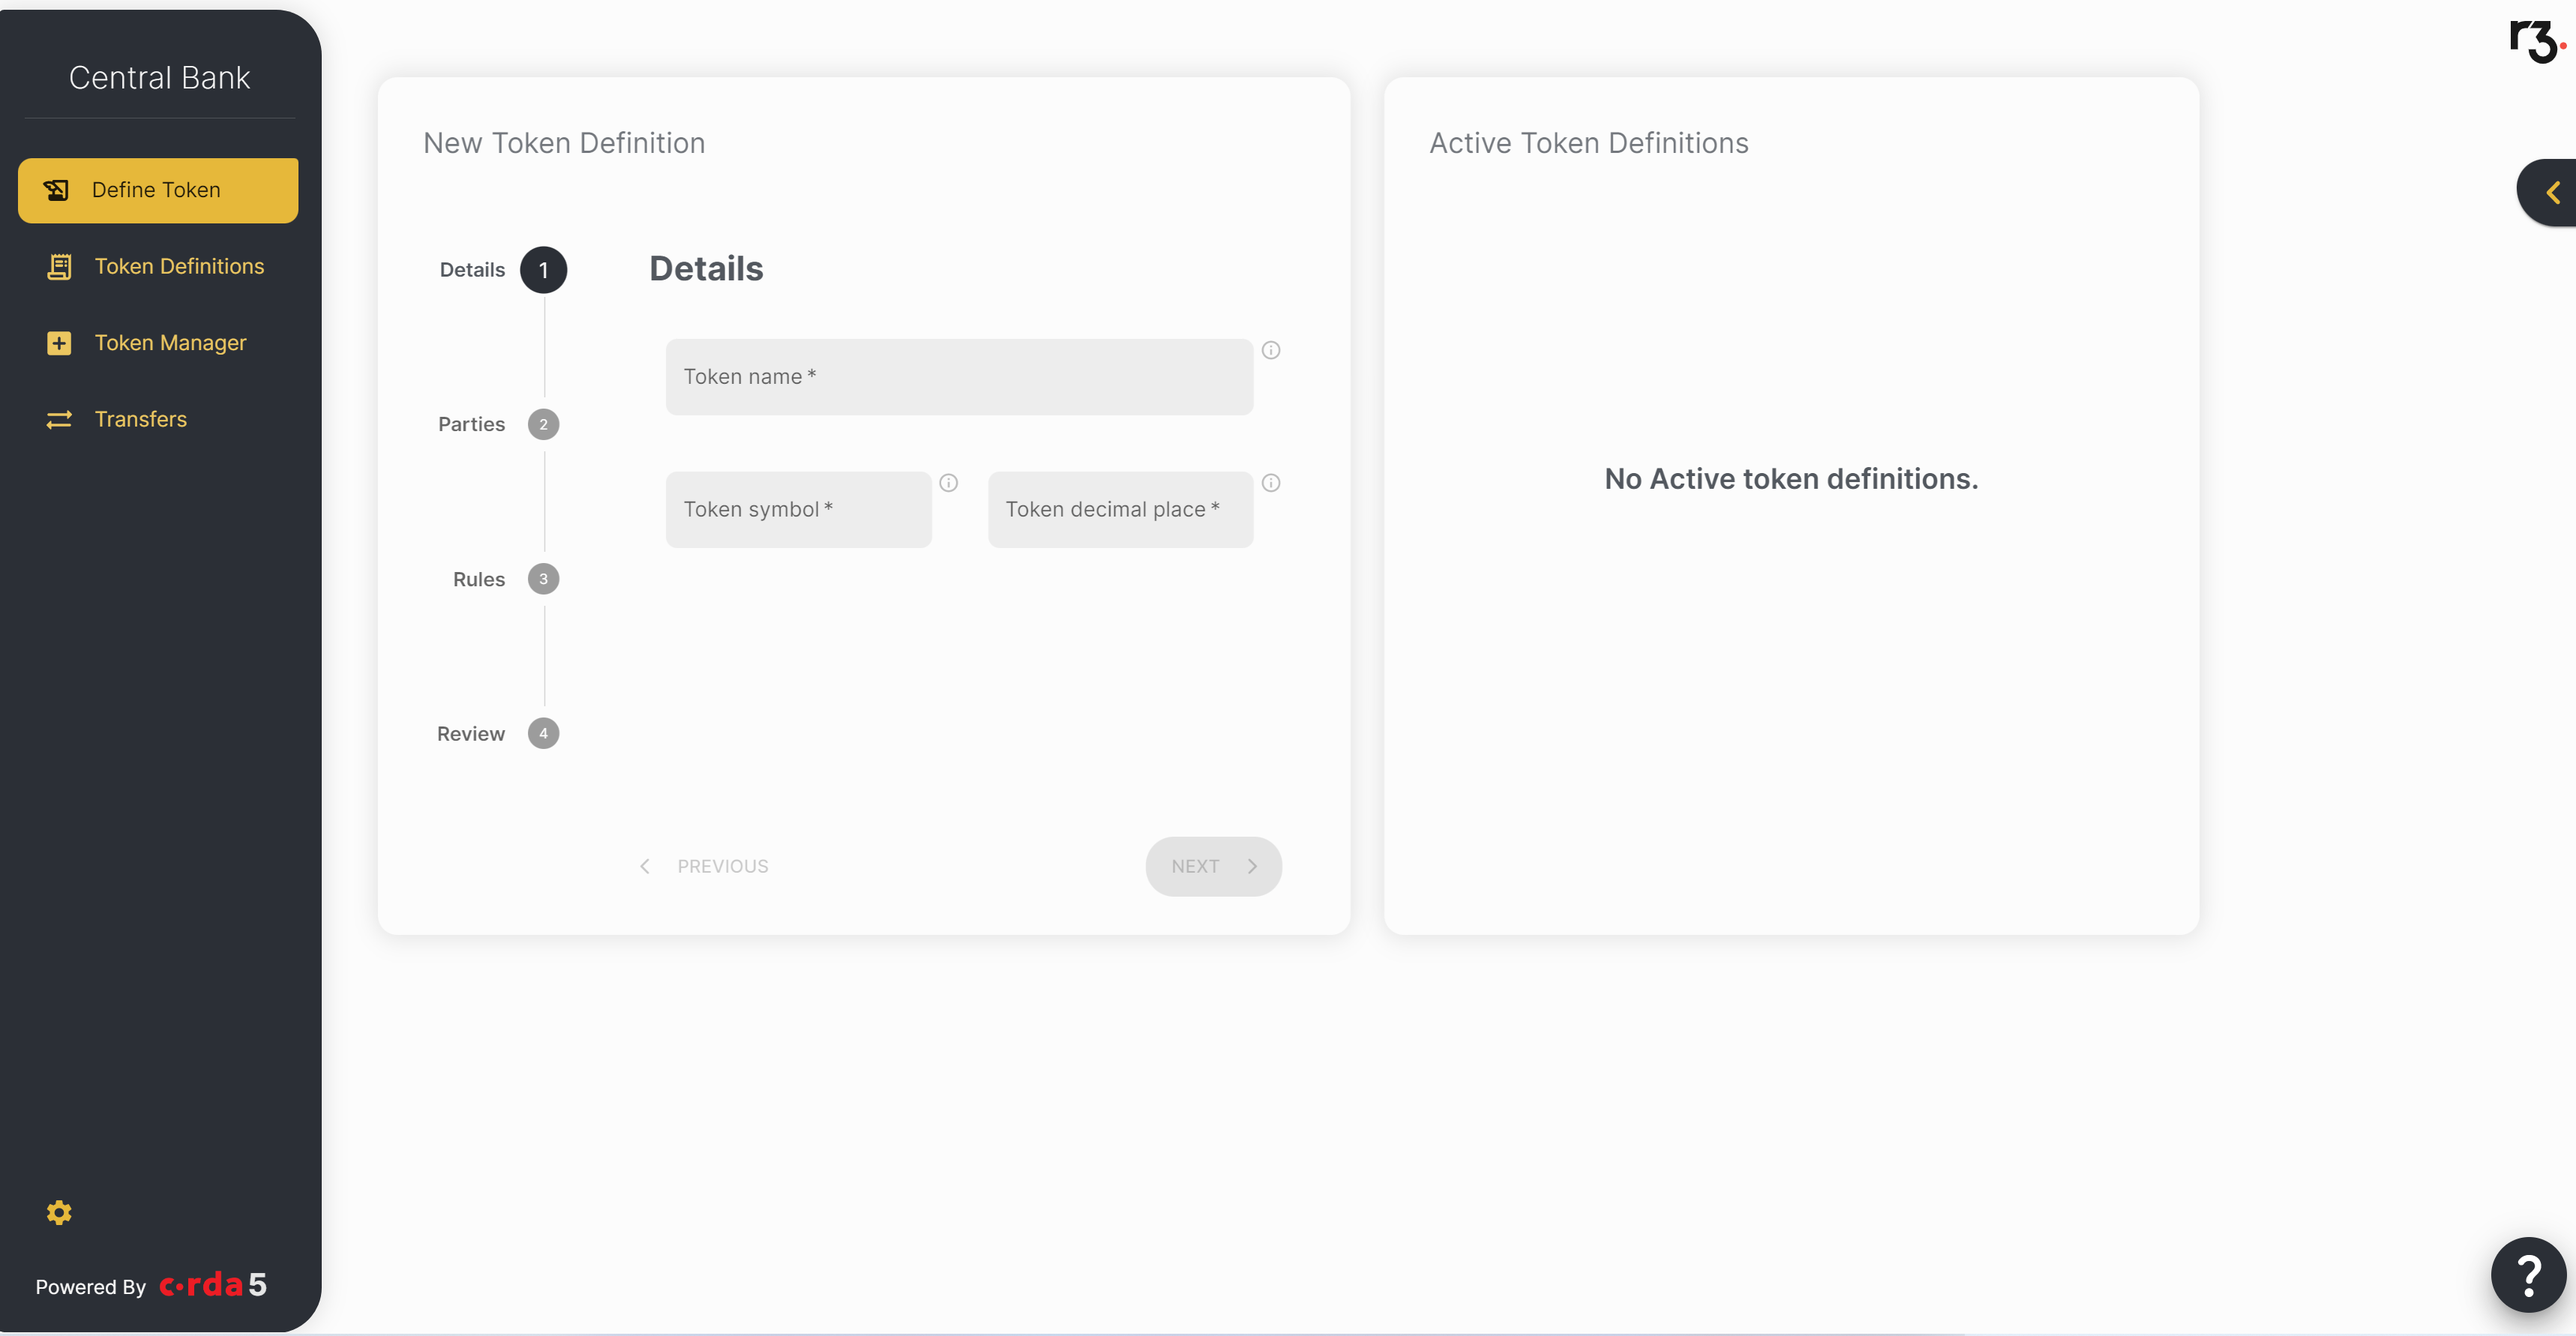
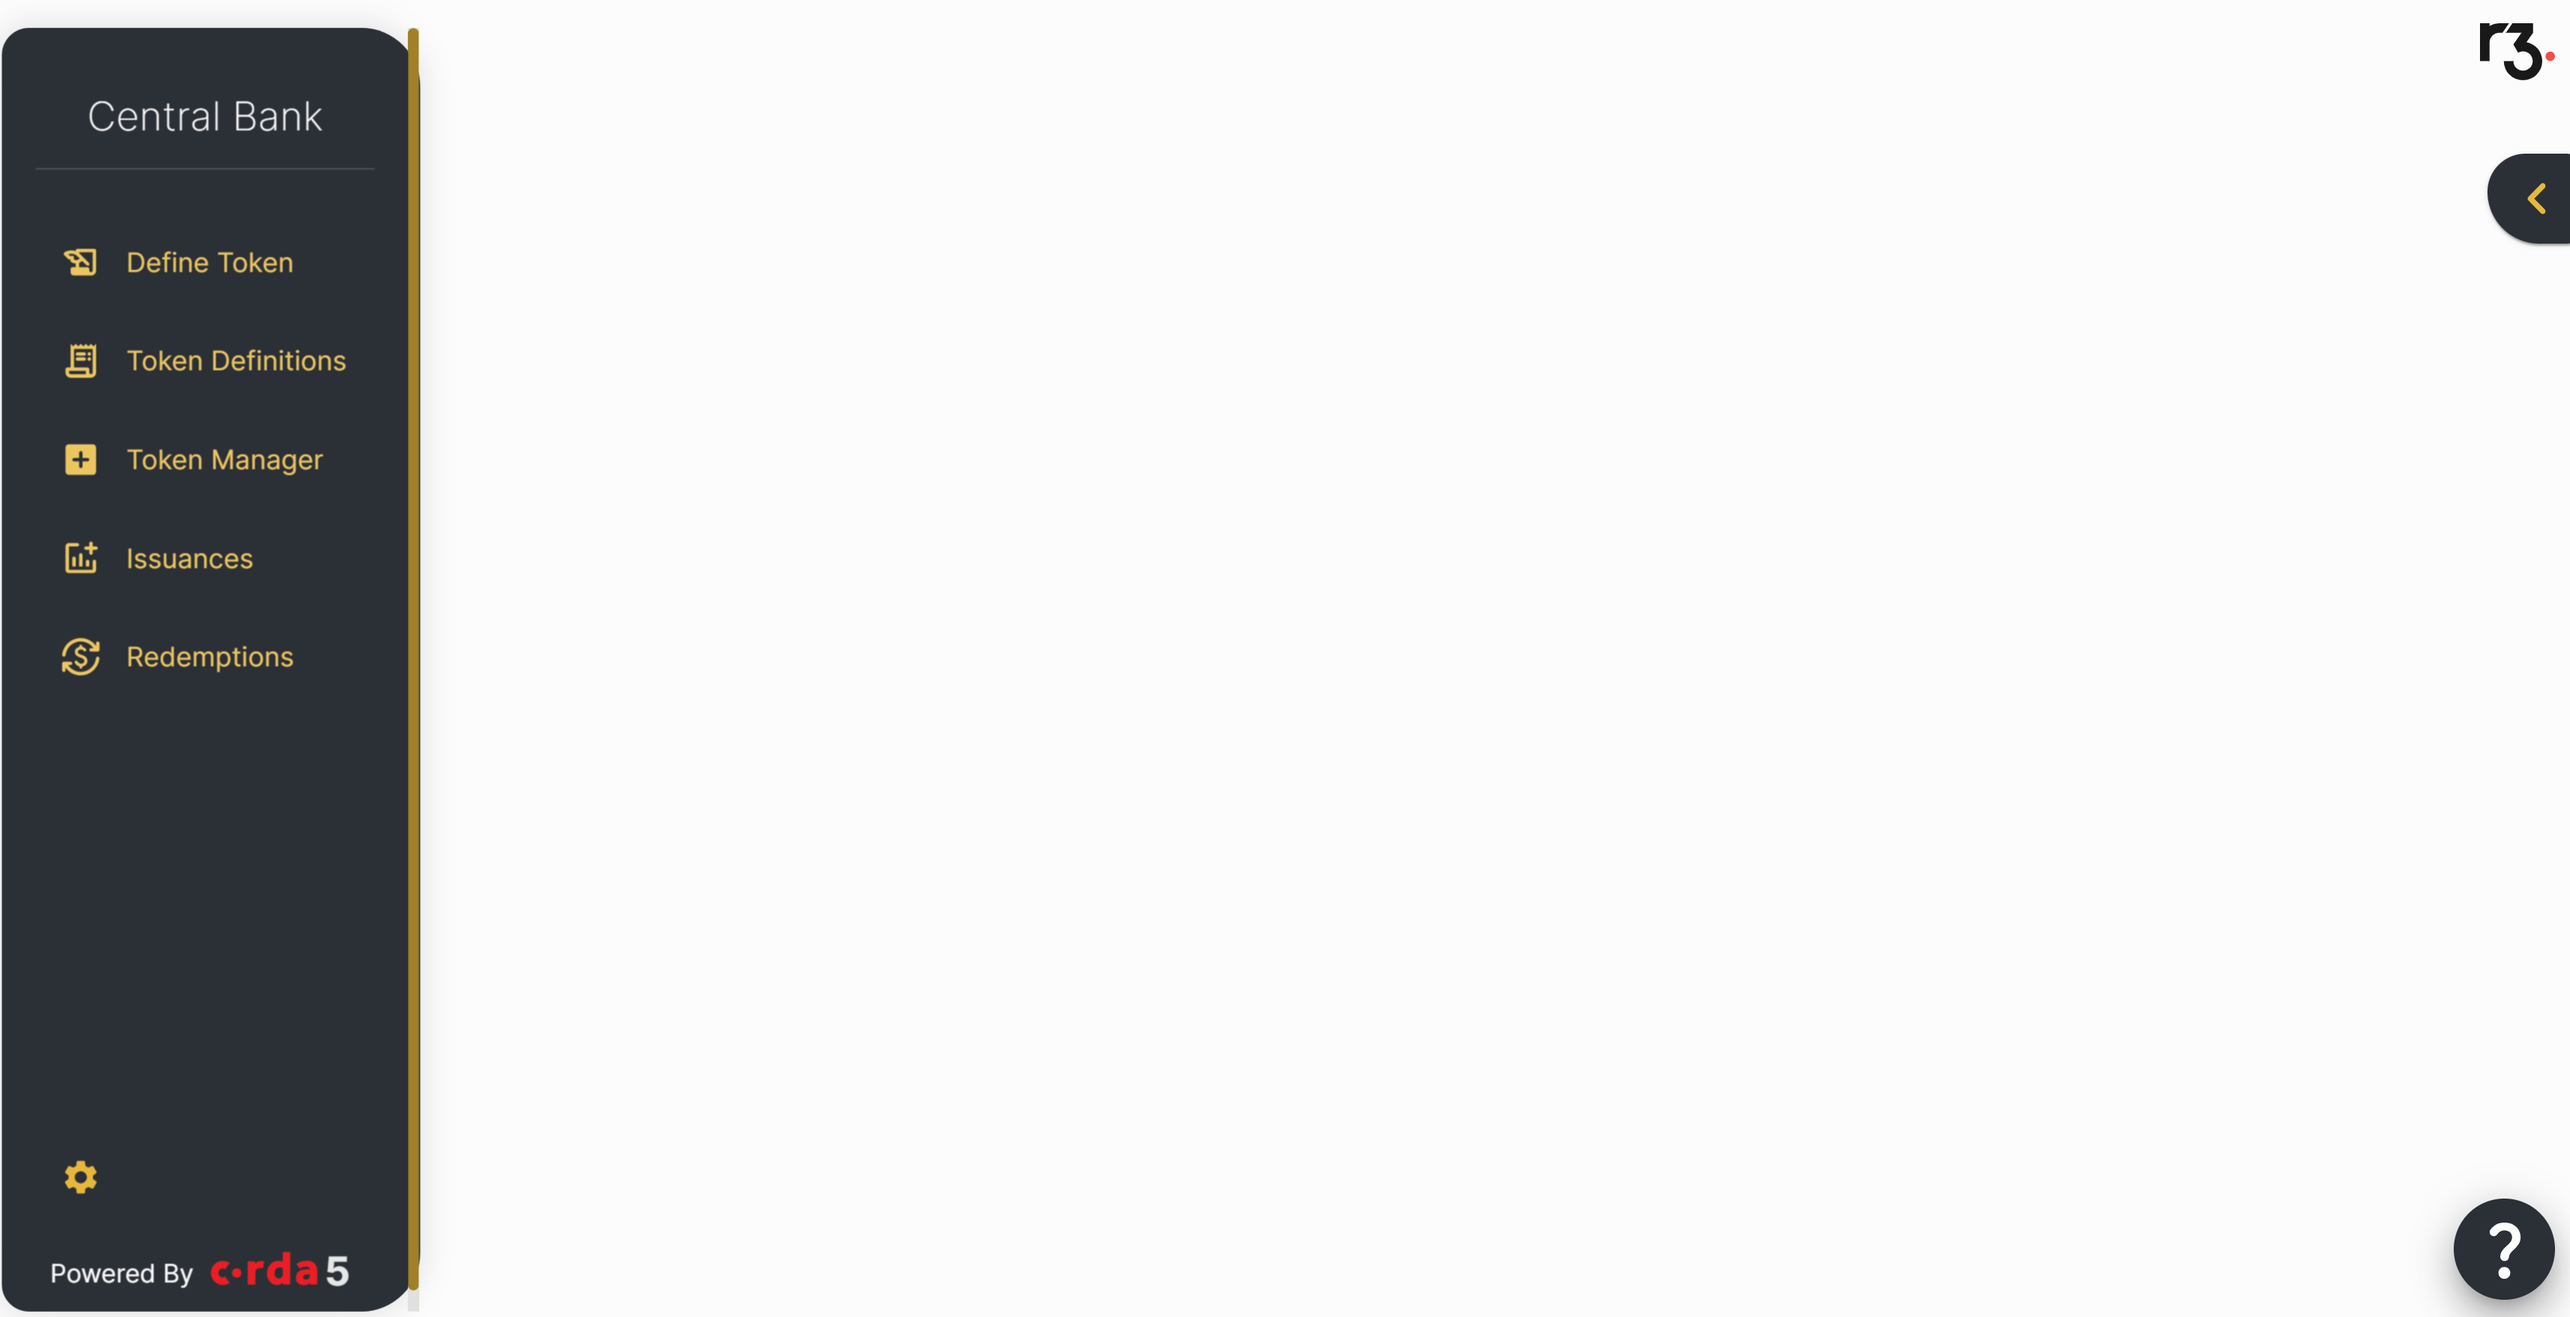
Updated language from creating to minting

diff --git a/content/en/tools/digital-currencies/launching-the-dc-demo.md b/content/en/tools/digital-currencies/launching-the-dc-demo.md
@@ -33,13 +33,15 @@ The GUI has the following elements:
   * **Define Token**: See [Creating Token Definitions]({{< relref "creating-token-definitions.md" >}})
   * **Token Definitions**: See [Viewing Token Definitions]({{< relref "viewing-token-definitions.md" >}})
   * **Token Manager**: See:
-    * [Creating Tokens]({{< relref "creating-tokens.md" >}})
+    * [Minting Tokens]({{< relref "minting-tokens.md" >}})
     * [Burning Tokens]({{< relref "burning-tokens.md" >}})
     * [Viewing Vault Balances]({{< relref "viewing-vault-balances.md" >}})
-  * **Transfers**: See:
+  * **Issuances**: See:
     * [Transfering Tokens]({{< relref "transfering-tokens.md"  >}})
+  * **Redemptions**: See:
+    * 
   See [Issuing Tokens]({{< relref "issuing-tokens.md" >}}) 
 * The **Settings** button (![](images/setting-buttons.png)): See [Viewing the GUI Settings]({{< relref "viewing-the-gui-settings.md" >}}). 
-* The flow tracker button (![](images/flow-drawer-button.png)): When performing flows such as creating token definitions and creating tokens, click this button to display a pop-out flow tracker which displays the current status of flows. By default, the five most recent flows are displayed.
+* The flow tracker button (![](images/flow-drawer-button.png)): When performing flows such as creating token definitions and minting tokens, click this button to display a pop-out flow tracker which displays the current status of flows. By default, the five most recent flows are displayed.
   
 

diff --git a/content/en/tools/digital-currencies/minting-tokens.md b/content/en/tools/digital-currencies/minting-tokens.md
@@ -4,12 +4,12 @@ lastmod: '2023-03-21'
 section_menu: tools
 menu:
   tools:
-    name: "Creating Tokens"
+    name: "Minting Tokens"
     weight: 900
     parent: digital-currencies-tokens-overview
     identifier: digital-currencies-creating-token-types
     description: "Digital Currencies documentation describing how to create tokens via the GUI"
-title: "Creating Tokens"
+title: "Minting Tokens"
 ---
 
 Once a token definition has been created, new tokens of that type can be issued. Such tokens can then be used as for currency or utility purposes and allows the issuing party to maintain monetary policy and provide easily accessible digital currency tokens to specific entities.
@@ -49,8 +49,8 @@ Once a token definition has been created, new tokens of that type can be issued.
       figure
 	  src="images/running-flows-create-tokens.png"
       width=50%
-	  figcaption="Creating Tokens - Flow Running"
-	  alt="Creating Tokens - Flow Running"
+	  figcaption="Minting Tokens - Flow Running"
+	  alt="Minting Tokens - Flow Running"
    >}}  
    
    Once the token definition flow completes, the message *A new token definition has been successfully created* is displayed:

diff --git a/content/en/tools/digital-currencies/creating-token-definitions.md b/content/en/tools/digital-currencies/creating-token-definitions.md
@@ -13,7 +13,7 @@ title: "Creating Token Definitions"
 ---
 
 
-Before [tokens can be created]({{< relref "creating-tokens.md" >}}), a {{< tooltip >}}token definition{{< definitiondc term="token definition" >}}{{< /tooltip >}} must be created. 
+Before [tokens can be created]({{< relref "minting-tokens.md" >}}), a {{< tooltip >}}token definition{{< definitiondc term="token definition" >}}{{< /tooltip >}} must be created. 
 
 1. In the Digital Currencies GUI, select **Define Token**.
 
@@ -160,7 +160,7 @@ The token defining entity cannot publish the token definition to the TIE unless 
 Now that a token definition has been created, you can:
 
 * [View existing token definitions]({{< relref "viewing-token-definitions.md" >}})
-* [Create tokens based on that definition]({{< relref "creating-tokens.md" >}})
+* [Create tokens based on that definition]({{< relref "minting-tokens.md" >}})
    
    
  

diff --git a/content/en/tools/digital-currencies/viewing-token-definitions.md b/content/en/tools/digital-currencies/viewing-token-definitions.md
@@ -38,7 +38,7 @@ The page displays two panels:
     * **Issuer:** The name of the Token Issuing Entity that can mint and burn tokens of this type <!-- only one in initial release -->
     * **Custodian:** The name of the Custodian responsible for the exchange of off-ledger collateral when a non-issuing party requests tokens of this token definition state from the Token Issuer; this setting is optional and can be "None"
     * **ID:** The unique ID for the token definition; this setting is specified automatically when the token definition is defined
-    <!--* **Version:** An integer specifying the version of the token definition -->
+    * **Version:** An integer specifying the version of the token definition.
 * **Decommisioned Token Definitions:** This panel lists any decommissioned token definitions
    
 From this page, you can perform the following actions:

diff --git a/content/en/tools/digital-currencies/issuing-tokens.md b/content/en/tools/digital-currencies/issuing-tokens.md
@@ -12,7 +12,7 @@ menu:
 title: "Issuing Tokens"
 ---
 
-Once a token type has been defined, tokens of that type can be issued. Issuing tokens involves both creating the tokens and then transfering them to the relevant entities.  
+Once a token type has been defined, tokens of that type can be issued. Issuing tokens involves both minting the tokens and then transfering them to the relevant entities.  
 
 The general process of issuance, and the on-ledger actions involved will be very similar, if not identical, for both central bank  and SC. However, the permissions of these on-ledger actions may be divided differently based on implementation. For example, in {{< tooltip >}}CBDC{{< definitiondc term="CBDC" >}}{{< /tooltip >}} issuance, the custodian and the token issuing entity will both be a central bank, while these roles may be divided for a stablecoin.
 

diff --git a/content/en/tools/digital-currencies/activating-token-definitions.md b/content/en/tools/digital-currencies/activating-token-definitions.md
@@ -19,7 +19,7 @@ title: "Activating Token Definitions"
 
    {{< 
       figure
-	  src="images/token-definitions-page.png"
+	  src="images/tokens-definitions-page-decommissioned.png"
       width=100%
 	  alt="Token Definitions Page"
 	  figcaption="Token Definitions Page"
@@ -71,8 +71,8 @@ title: "Activating Token Definitions"
    
    {{< 
       figure
-	  src="images/active-token-definitions.png"
-      width=60%
+	  src="images/token-definitions-page.png"
+      width=100%
 	  alt="'Active Tokens Definitions' Panel"
 	  figcaption="'Active Tokens Definitions' Panel"
    >}}

diff --git a/content/en/tools/digital-currencies/decommissioning-token-definitions.md b/content/en/tools/digital-currencies/decommissioning-token-definitions.md
@@ -39,6 +39,18 @@ title: "Decommissioning Token Definitions"
 	  figcaption="Active Token Definitions - Decommission Button"
    >}}
    
+   The following dialog box is displayed:
+   
+   {{< 
+      figure
+	  src="images/decommission-token-confirm.png"
+      width=60%
+	  alt="Active Token Definitions - Confirm Decommission"
+	  figcaption="Active Token Definitions - Confirm Decommission"
+   >}}
+   
+3. Click **Confirm**.
+   
    The message *Token definition decommission submitted* is displayed:
 
    {{< 

diff --git a/content/en/tools/digital-currencies/updating-token-definitions.md b/content/en/tools/digital-currencies/updating-token-definitions.md
@@ -13,5 +13,5 @@ menu:
 title: "Updating Token Definitions"
 ---
 
-After a [token definition has been initially created]({{< relref "creating-token-definitions.md" >}}), it can be updated, even when [tokens of that type have already been created]({{< relref "creating-tokens.md" >}}).
+After a [token definition has been initially created]({{< relref "creating-token-definitions.md" >}}), it can be updated, even when [tokens of that type have already been created]({{< relref "minting-tokens.md" >}}).
 

diff --git a/content/en/tools/digital-currencies/installing-the-dc-demo.md b/content/en/tools/digital-currencies/installing-the-dc-demo.md
@@ -113,7 +113,7 @@ You need a local copy of both the following repositories:
    {{<
      figure
 	 src="images/dc-open-in-intellij.png"
-   width=80%
+   width=40%
 	 figcaption="Digital Currencies Project in IntelliJ"
 	 alt="Digital Currencies Project in IntelliJ"
    >}}

diff --git a/content/en/tools/digital-currencies/tokens-overview.md b/content/en/tools/digital-currencies/tokens-overview.md
@@ -62,7 +62,7 @@ The following actions can be performed on token definitions:
 
 The following actions can be performed on token
 
-## Creating Tokens (CreateTokenFlow)
+## Minting Tokens (CreateTokenFlow)
 
 Input state: none
 
